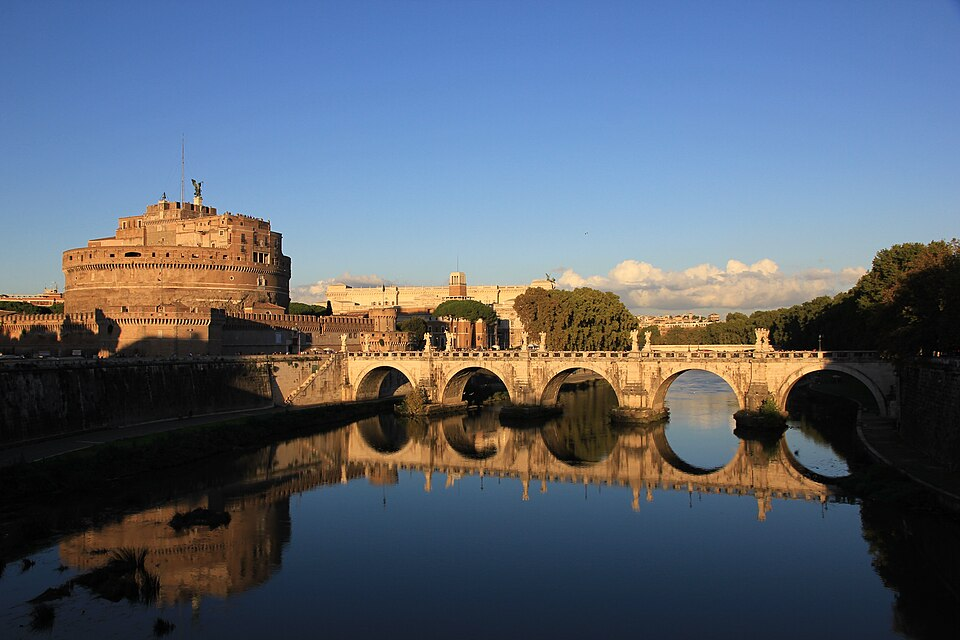
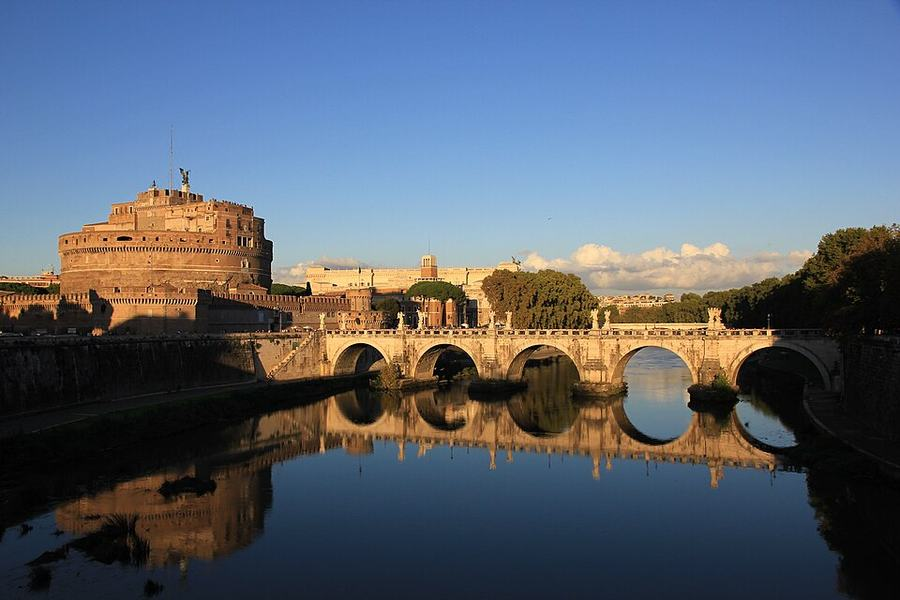
Italy Quiz: preload tour pictures, scroll the explanation into view, halve image weight
Three fixes to the Rome tour, all reported from a phone.

Pictures stalled on first use. Every tour image is now warmed in one
Asset.loadAsync while the player is still reading the intro card, so no
question waits on a blank frame; and the six files were downscaled to 900px
and re-encoded, cutting them from 1044 KB to 553 KB. The tall Domitian shot
was the worst offender at 375 KB for an image the 4:3 frame mostly crops away.

The explanation after a correct answer looked missing. It was rendered all
along, but it sits under the options, which on a photo question puts it below
the fold — nobody scrolled down to find it. It now scrolls itself into view.

diff --git a/app/italy-quiz/quiz.tsx b/app/italy-quiz/quiz.tsx
@@ -14,6 +14,7 @@ import { router, useLocalSearchParams } from 'expo-router';
 import { StatusBar } from 'expo-status-bar';
 import { SafeAreaView } from 'react-native-safe-area-context';
 import * as Haptics from 'expo-haptics';
+import { Asset } from 'expo-asset';
 
 import { AppBackground } from '@/components/italy-quiz/app-background';
 import { ActInterlude } from '@/components/italy-quiz/act-interlude';
@@ -88,6 +89,7 @@ export default function ItalyQuizGame() {
   /** Notch the slider is resting on for an `estimate` question, null until touched. */
   const [notch, setNotch] = useState<number | null>(null);
 
+  const scrollRef = useRef<ScrollView>(null);
   const advanceTimer = useRef<ReturnType<typeof setTimeout> | null>(null);
   useEffect(
     () => () => {
@@ -106,6 +108,17 @@ export default function ItalyQuizGame() {
     epoch,
   });
 
+  // Warm EVERY picture of the tour at once, while the player is still reading the
+  // intro card. A bundled image is not free on first use — in a dev build it is
+  // fetched from Metro, and even in a release build it has to be decoded — so
+  // without this the first photo question stalls on a blank frame. Paying for all
+  // six during the intro means no question ever waits. Fails open: an image that
+  // will not warm simply loads late, as it did before.
+  useEffect(() => {
+    const pictures = questions.map((q) => q.image).filter(Boolean);
+    if (pictures.length > 0) Asset.loadAsync(pictures as number[]).catch(() => {});
+  }, [questions]);
+
   const question = ids[pos] != null ? byId.get(ids[pos]) : undefined;
   const prevQuestion = pos > 0 && ids[pos - 1] != null ? byId.get(ids[pos - 1]) : undefined;
   const act = rawPlace?.acts.find((a) => a.id === question?.act) ?? null;
@@ -114,6 +127,15 @@ export default function ItalyQuizGame() {
     setPicked(null);
     setNotch(null);
   }, [question?.id]);
+
+  // The explanation is rendered under the options, which on a photo question puts
+  // it below the fold — it was there all along but nobody scrolled to find it.
+  // Bring it into view as soon as it appears.
+  useEffect(() => {
+    if (picked === null || !question || picked !== question.correct) return;
+    const id = setTimeout(() => scrollRef.current?.scrollToEnd({ animated: true }), 80);
+    return () => clearTimeout(id);
+  }, [picked, question]);
 
   // Resuming mid-tour drops the player straight back into the question.
   useEffect(() => {
@@ -461,7 +483,11 @@ export default function ItalyQuizGame() {
 
   return Shell(
     <>
-      <ScrollView contentContainerStyle={styles.body} showsVerticalScrollIndicator={false}>
+      <ScrollView
+        ref={scrollRef}
+        contentContainerStyle={styles.body}
+        showsVerticalScrollIndicator={false}
+      >
         {/* "Then" ribbon — the earlier question this one answers back to. */}
         {callbackQuestion ? (
           <View style={styles.callback}>
